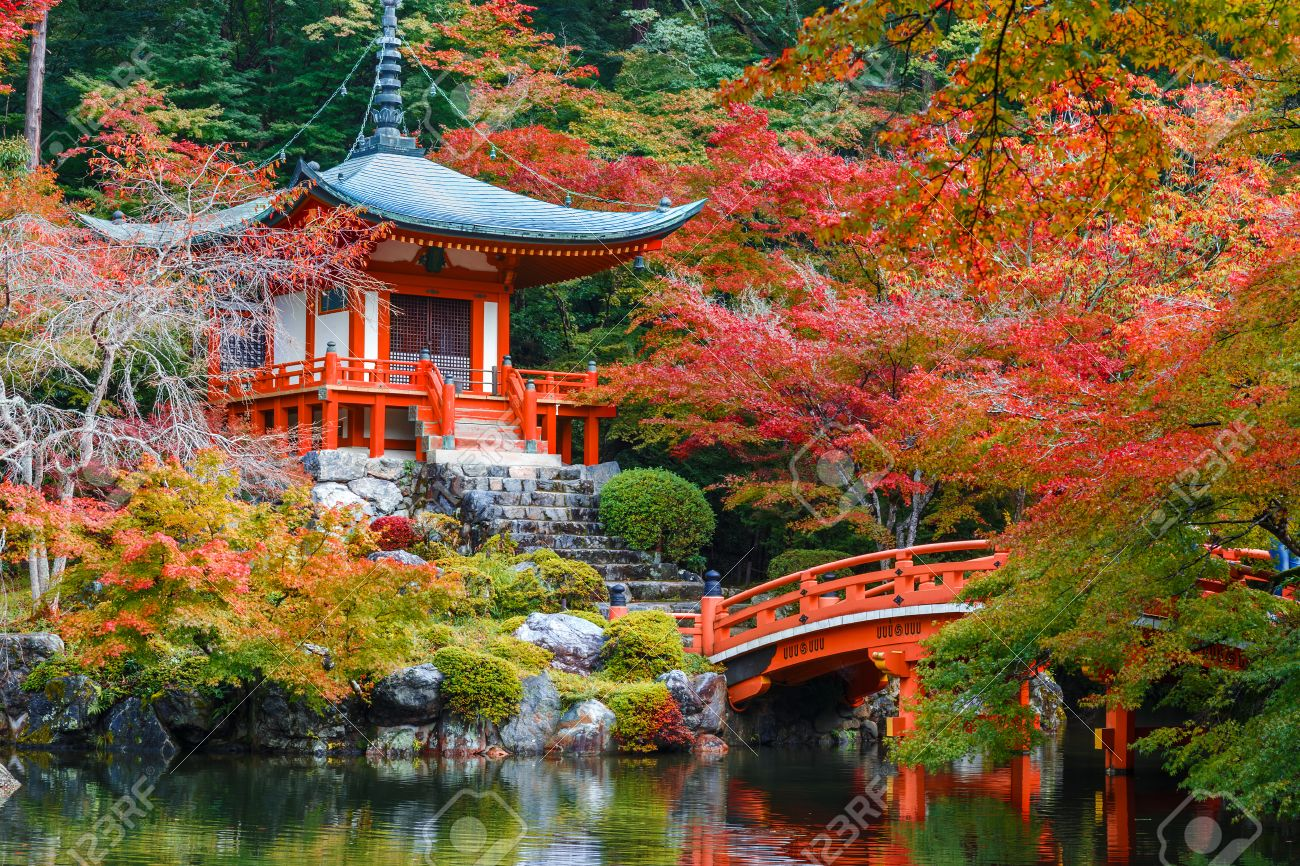
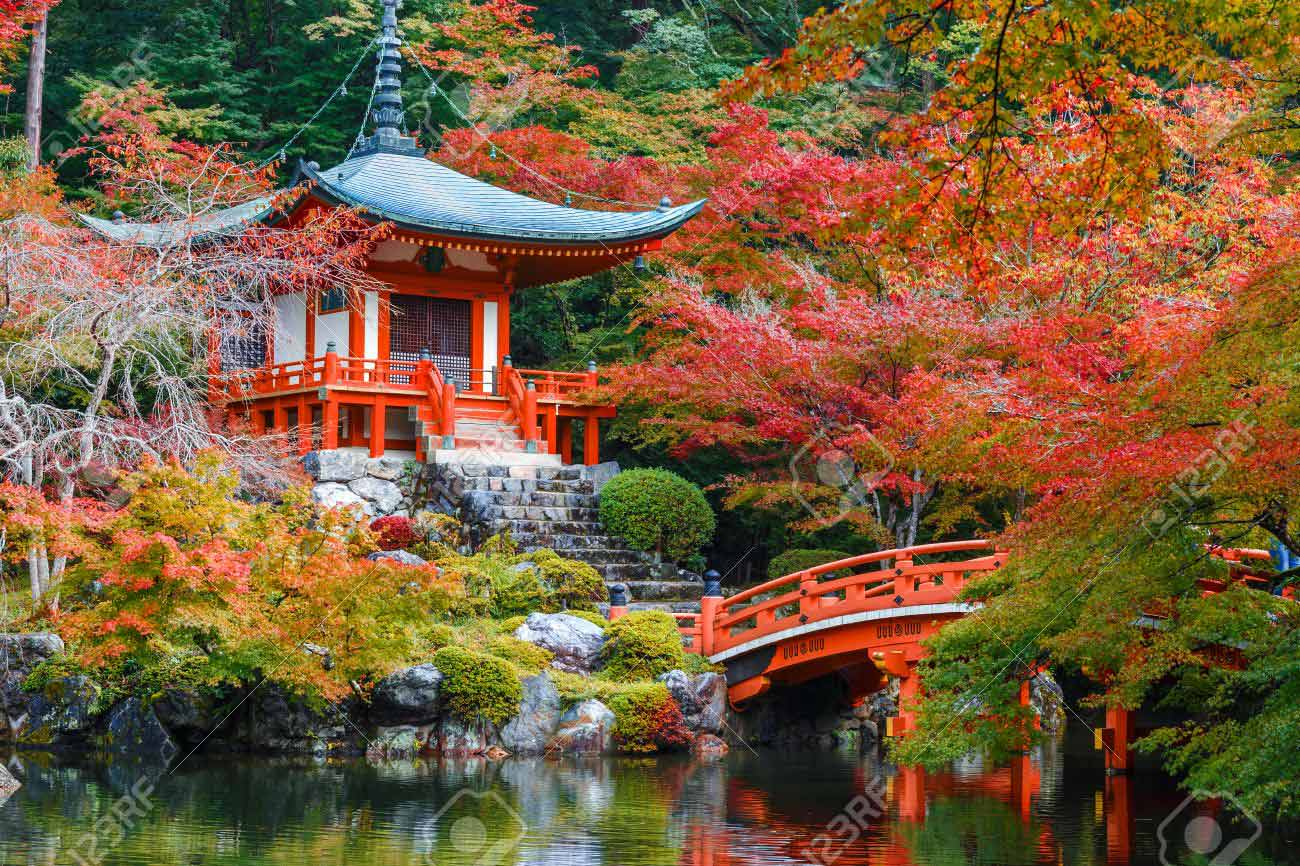
Image file optimization

diff --git a/frontend/src/components/Carousel.js b/frontend/src/components/Carousel.js
@@ -11,55 +11,55 @@ import {
 const items = [
   [
     {
-      src: "/assets/cities/kamakura.png",
+      src: "/assets/cities/kamakura.jpg",
       name: "Kamakura",
     },
     {
-      src: "/assets/cities/Kobe.png",
+      src: "/assets/cities/kobe.jpg",
       name: "Kobe",
     },
     {
-      src: "/assets/cities/Kyoto.png",
+      src: "/assets/cities/kyoto.jpg",
       name: "Kyoto",
     },
     {
-      src: "/assets/cities/Nagasaki.png",
+      src: "/assets/cities/nagasaki.jpg",
       name: "Nagasaki",
     },
   ],
   [
     {
-      src: "/assets/cities/nara.png",
+      src: "/assets/cities/nara.jpg",
       name: "Nara",
     },
     {
-      src: "/assets/cities/okinawa.png",
+      src: "/assets/cities/okinawa.jpg",
       name: "Okinawa",
     },
     {
-      src: "/assets/cities/osaka.png",
+      src: "/assets/cities/osaka.jpg",
       name: "Osaka",
     },
     {
-      src: "/assets/cities/tokyo.png",
+      src: "/assets/cities/tokyo.jpg",
       name: "Tokyo",
     },
   ],
   [
     {
-      src: "/assets/cities/yokohama.png",
+      src: "/assets/cities/yokohama.jpg",
       name: "Yokohama",
     },
     {
-      src: "/assets/cities/sapporo.png",
+      src: "/assets/cities/sapporo.jpg",
       name: "Sapporo",
     },
     {
-      src: "/assets/cities/hiroshima.png",
+      src: "/assets/cities/hiroshima.jpg",
       name: "Hiroshima",
     },
     {
-      src: "/assets/cities/kumamoto.png",
+      src: "/assets/cities/kumamoto.jpg",
       name: "Kumamoto",
     },
   ],

diff --git a/frontend/src/App.js b/frontend/src/App.js
@@ -1,15 +1,14 @@
 import "./App.css";
 import "bootstrap/dist/css/bootstrap.min.css";
+import { useEffect } from "react";
 import { BrowserRouter, Route, Switch, Redirect } from "react-router-dom";
 import Home from "./pages/Home";
 import Cities from "./pages/Cities";
 import City from "./pages/City";
 import Error404 from "./pages/404";
-import Panel from "./pages/Panel";
 import Signup from "./pages/Signup";
 import Login from "./pages/Login";
 import { connect } from "react-redux";
-import { useEffect } from "react";
 import userActions from "./redux/actions/usersActions";
 
 const App = (props) => {
@@ -29,7 +28,6 @@ const App = (props) => {
         <Route path="/city/:id" component={City} />
         {!props.token && <Route path="/signup" component={Signup} />}
         {!props.token && <Route path="/login" component={Login} />}
-        <Route path="/panel" component={Panel} />
         <Route path="/notfound" component={Error404} />
         <Redirect to="/" />
       </Switch>
@@ -40,7 +38,6 @@ const App = (props) => {
 const mapStateToProps = (state) => {
   return {
     token: state.users.token,
-
   }
 }
 

diff --git a/frontend/src/pages/Signup.js b/frontend/src/pages/Signup.js
@@ -16,7 +16,6 @@ const Signup = (props) => {
     const [countries, setCountries] = useState([])
     const [errors, setErrors] = useState({})
 
-    //verificar si esto debe ser hecho a través de un action
     useEffect(() => {
         axios.get("https://restcountries.com/v2/all?fields=name")
             .then(response => setCountries(response.data))

diff --git a/frontend/src/pages/Cities.js b/frontend/src/pages/Cities.js
@@ -60,7 +60,7 @@ const Cities = (props) => {
       </header>
       <div
         className={styles.cityHero}
-        style={{ backgroundImage: "url('/assets/banner.png')" }}
+        style={{ backgroundImage: "url('/assets/banner.jpg')" }}
       >
         <h1>
           Find your next

diff --git a/routes/index.js b/routes/index.js
@@ -50,6 +50,7 @@ router
   .route("/likes/:id")
   .put(passport.authenticate('jwt', { session: false }), itineraryControllers.likeItinerary)
 
+// USERS
 router
   .route("/user/signup")
   .post(validator, userControllers.addNewUser)
